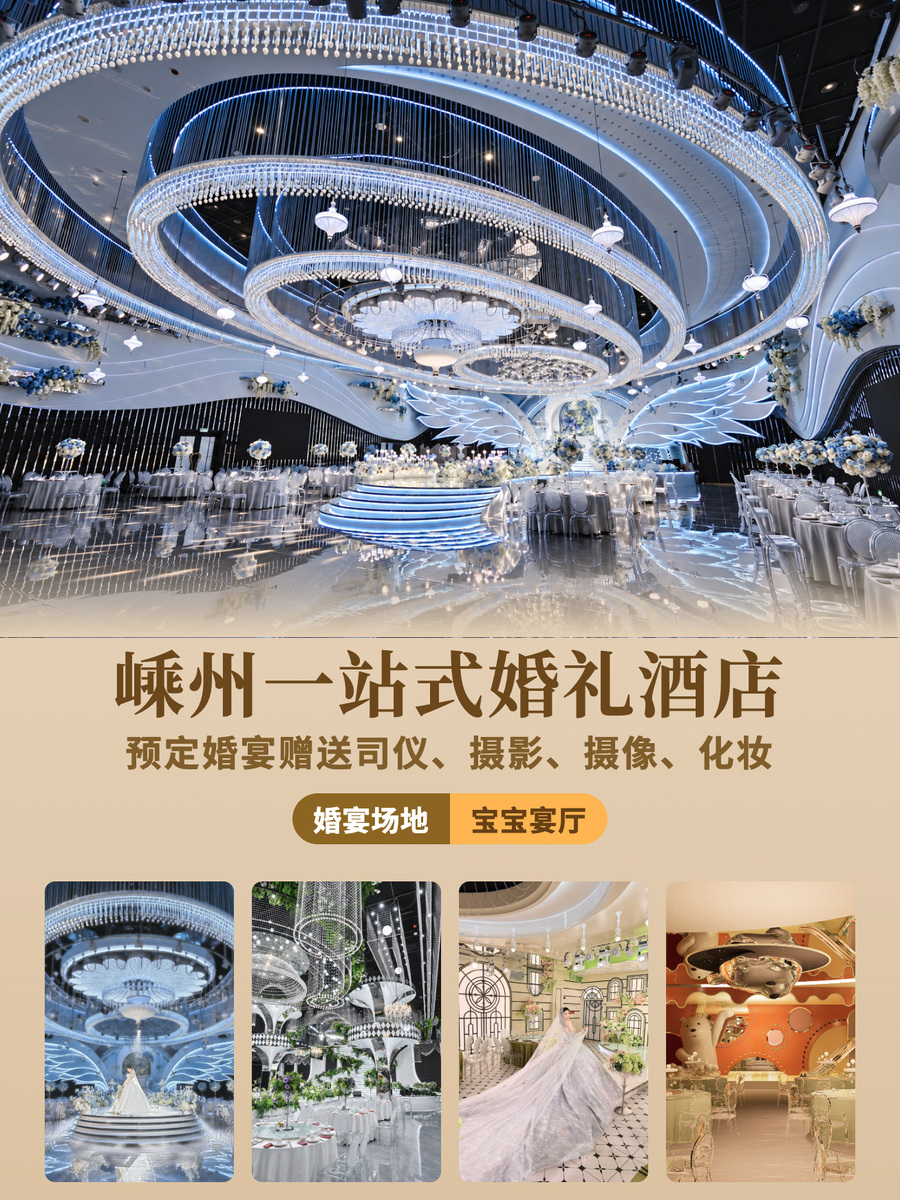
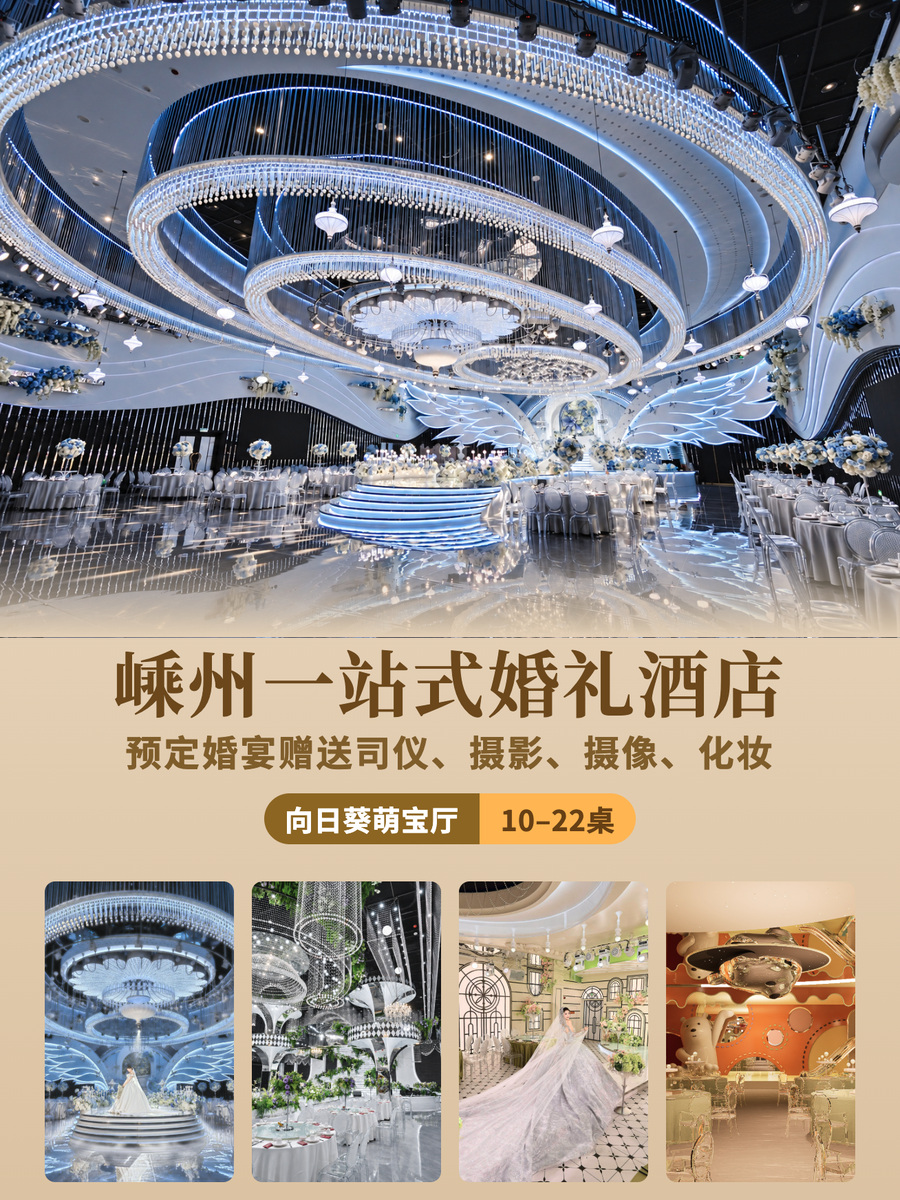
Correct sunflower hall capacity badge in Jinhe template 4

Changed region(s): [[0.28, 0.6475, 0.7156, 0.7092]]

diff --git a/projects/jinhe/editors/4.html b/projects/jinhe/editors/4.html
@@ -2,7 +2,7 @@
 <html lang="zh-CN">
 <head><script id="jinhe-copy-migration">
 (()=>{
- const n=4,rev='20261107-title-benefit-5',changes={},pending=new Map();
+ const n=4,rev='20261107-title-benefit-6',changes={"btn.tL":"向日葵萌宝厅","btn.tR":"10–22桌"},pending=new Map();
  const path=(s,k,v)=>{const bits=k.split('.');let p=s;for(const b of bits.slice(0,-1)){if(p?.[b]==null)return;p=p[b];}if(p)p[bits.at(-1)]=v;};
  window.jinheCopyRevision=rev;
  window.jinheCopyRevisionKey=id=>'jinhe-copy-'+n+'-'+rev+'-'+id;
@@ -18,7 +18,7 @@
   if(n===62){for(const t of [...Object.values(s.txt||{}),...Object.values(s.brand||{})]){t.sh=0;t.st=0;t.st2=0;}if(s.txt?.priceLabel){Object.assign(s.txt.priceLabel,{s:'婚宴餐标',size:50,it:0});}if(s.txt?.price){Object.assign(s.txt.price,{s:'2000+',size:96,cx:72,align:'left'});s.txt.priceUnit={...s.txt.price,s:'元/桌起',size:38,w:400,cx:384,cy:s.txt.price.cy+22,align:'left',sh:0,st:0,st2:0};}}
   if(n===68)for(const e of s.elements||[])if(e.type==='text'){e.shadow=false;e.shadowBlur=0;e.strokeWidth=0;}
   return s;};
- window.jinheMigrateCopy=async(force=false)=>{const a=window.jinheCopyAccess;if(!a||window.__jinheSeeding)return false;const state=a.current(),id=a.id();if(!state||id==null)return false;const key=window.jinheCopyRevisionKey(id);if(!force&&localStorage.getItem(key)==='done')return false;if(pending.has(key))return pending.get(key);const work=(async()=>{window.jinhePatchCopy(state);await a.save();localStorage.setItem(key,'done');await a.render();await document.fonts.ready;window.__jinheCopyMigration={ok:true,templateId:n,projectId:id,revision:rev};return true;})();pending.set(key,work);try{return await work;}finally{pending.delete(key);}};
+ window.jinheMigrateCopy=async(force=false)=>{const a=window.jinheCopyAccess;if(!a||window.__jinheSeeding)return false;const state=a.current(),id=a.id();if(!state||id==null)return false;const key=window.jinheCopyRevisionKey(id);if(!force&&localStorage.getItem(key)==='done')return false;if(pending.has(key))return pending.get(key);const work=(async()=>{if(!force&&localStorage.getItem('jinhe-copy-4-20261107-title-benefit-5-'+id)==='done'){if(state.btn)Object.assign(state.btn,{tL:'向日葵萌宝厅',tR:'10–22桌'});}else window.jinhePatchCopy(state);await a.save();localStorage.setItem(key,'done');await a.render();await document.fonts.ready;window.__jinheCopyMigration={ok:true,templateId:n,projectId:id,revision:rev};return true;})();pending.set(key,work);try{return await work;}finally{pending.delete(key);}};
 })();
 </script>
 <meta charset="UTF-8">
@@ -836,7 +836,7 @@ window.jinheHydrateTask=async function(job){
  await Promise.all((job.images||[]).map(async img=>{if(!img.src.startsWith('data:')){const r=await fetch(img.src);if(!r.ok)throw Error('图片未能载入');let blob;if(img.src.endsWith('.asset.json')){const parts=await r.json();const base=new URL(img.src,location.href);const buffers=await Promise.all(parts.parts.map(async p=>{const z=await fetch(new URL(p.file,base));if(!z.ok)throw Error('图片分片未能载入');return await z.arrayBuffer();}));blob=new Blob(buffers,{type:parts.mime});}else blob=await r.blob();img.src=await new Promise((resolve,reject)=>{const rd=new FileReader();rd.onload=()=>resolve(rd.result);rd.onerror=reject;rd.readAsDataURL(blob);});}}));
  return job;
 };
-</script><script>window.jinheFlushCurrent=async()=>{clearTimeout(saveT);await savePending;const rec={name:proj.name,data:JSON.parse(JSON.stringify(proj)),imgs:imgBlobs,updated:Date.now()};if(projId!=null)rec.id=projId;projId=await dbPut(rec);};</script><script type="application/json" id="jinhe-task">{"templateId":4,"name":"锦禾-模板4-待审","store":"锦禾宴会中心","images":[{"slot":"s0","x":50,"y":50,"zoom":1,"src":"../assets/web/e878fdd2208ff40062c27d20.jpg"},{"slot":"s1","x":50,"y":50,"zoom":1,"src":"../assets/web/24b2efecf9f76a8214a384bc.jpg"},{"slot":"s2","x":50,"y":50,"zoom":1,"src":"../assets/web/2c6f8840962a8deb78986eaf.jpg"},{"slot":"s3","x":50,"y":50,"zoom":1,"src":"../assets/web/b7f88b26aa46e20bc489a824.jpg"},{"slot":"s4","x":50,"y":50,"zoom":1,"src":"../assets/web/f2581e4ac02b5dfec623b36c.jpg"}],"nativeTexts":{"title":"嵊州一站式婚礼酒店","sub":"预定婚宴赠送司仪、摄影、摄像、化妆"}}</script><button type="button" id="jinhe-restore" style="position:fixed;right:18px;bottom:18px;z-index:2147483646;padding:12px 18px;background:#245e56;color:white;border:0;border-radius:8px;cursor:pointer">载入锦禾本版项目</button><script>document.getElementById('jinhe-restore').onclick=async()=>{const btn=document.getElementById('jinhe-restore');btn.disabled=true;btn.textContent='正在载入项目…';try{const job=await window.jinheHydrateTask(JSON.parse(document.getElementById('jinhe-task').textContent));await posterAutomation.ready();await posterAutomation.apply(job);await document.fonts.ready;proj.bgTop='#efe3d1';proj.bgBot='#ddc9a9';for(const f of proj.fields)f.color=f.key==='title'?'#735016':'#87682b';proj.btn.tL='婚宴场地';proj.btn.tR='宝宝宴厅';proj.btn.cL='#937019';proj.btn.cR='#f8bc50';proj.btn.tcL='#fff';proj.btn.tcR='#6d4709';render();buildPanel();save();const check=await posterAutomation.validate();if(!check.ok)throw Error(JSON.stringify(check.issues));window.__jinheResult={ok:true,check};btn.textContent='已载入锦禾项目';}catch(e){window.__jinheResult={ok:false,error:String(e.message||e)};btn.textContent='载入失败，请查看控制台';console.error(e);}};</script><script>window.jinheCopyAccess={current:()=>proj,id:()=>projId,save:()=>window.jinheFlushCurrent(),render:async()=>{buildPanel();render();await document.fonts.ready;render();}};
+</script><script>window.jinheFlushCurrent=async()=>{clearTimeout(saveT);await savePending;const rec={name:proj.name,data:JSON.parse(JSON.stringify(proj)),imgs:imgBlobs,updated:Date.now()};if(projId!=null)rec.id=projId;projId=await dbPut(rec);};</script><script type="application/json" id="jinhe-task">{"templateId":4,"name":"锦禾-模板4-待审","store":"锦禾宴会中心","images":[{"slot":"s0","x":50,"y":50,"zoom":1,"src":"../assets/web/e878fdd2208ff40062c27d20.jpg"},{"slot":"s1","x":50,"y":50,"zoom":1,"src":"../assets/web/24b2efecf9f76a8214a384bc.jpg"},{"slot":"s2","x":50,"y":50,"zoom":1,"src":"../assets/web/2c6f8840962a8deb78986eaf.jpg"},{"slot":"s3","x":50,"y":50,"zoom":1,"src":"../assets/web/b7f88b26aa46e20bc489a824.jpg"},{"slot":"s4","x":50,"y":50,"zoom":1,"src":"../assets/web/f2581e4ac02b5dfec623b36c.jpg"}],"nativeTexts":{"title":"嵊州一站式婚礼酒店","sub":"预定婚宴赠送司仪、摄影、摄像、化妆"}}</script><button type="button" id="jinhe-restore" style="position:fixed;right:18px;bottom:18px;z-index:2147483646;padding:12px 18px;background:#245e56;color:white;border:0;border-radius:8px;cursor:pointer">载入锦禾本版项目</button><script>document.getElementById('jinhe-restore').onclick=async()=>{const btn=document.getElementById('jinhe-restore');btn.disabled=true;btn.textContent='正在载入项目…';try{const job=await window.jinheHydrateTask(JSON.parse(document.getElementById('jinhe-task').textContent));await posterAutomation.ready();await posterAutomation.apply(job);await document.fonts.ready;proj.bgTop='#efe3d1';proj.bgBot='#ddc9a9';for(const f of proj.fields)f.color=f.key==='title'?'#735016':'#87682b';proj.btn.tL='向日葵萌宝厅';proj.btn.tR='10–22桌';proj.btn.cL='#937019';proj.btn.cR='#f8bc50';proj.btn.tcL='#fff';proj.btn.tcR='#6d4709';render();buildPanel();save();const check=await posterAutomation.validate();if(!check.ok)throw Error(JSON.stringify(check.issues));window.__jinheResult={ok:true,check};btn.textContent='已载入锦禾项目';}catch(e){window.__jinheResult={ok:false,error:String(e.message||e)};btn.textContent='载入失败，请查看控制台';console.error(e);}};</script><script>window.jinheCopyAccess={current:()=>proj,id:()=>projId,save:()=>window.jinheFlushCurrent(),render:async()=>{buildPanel();render();await document.fonts.ready;render();}};
 const jinheOpenCopyBase=hydrate;hydrate=async function(...args){const out=await jinheOpenCopyBase(...args);await window.jinheMigrateCopy();return out;};
 const jinheNewCopyBase=newProject;newProject=async function(...args){const out=await jinheNewCopyBase(...args);await window.jinheMigrateCopy();return out;};
 const jinheDefaultCopyBase=defProject;defProject=function(...args){return window.jinhePatchCopy(jinheDefaultCopyBase(...args));};
